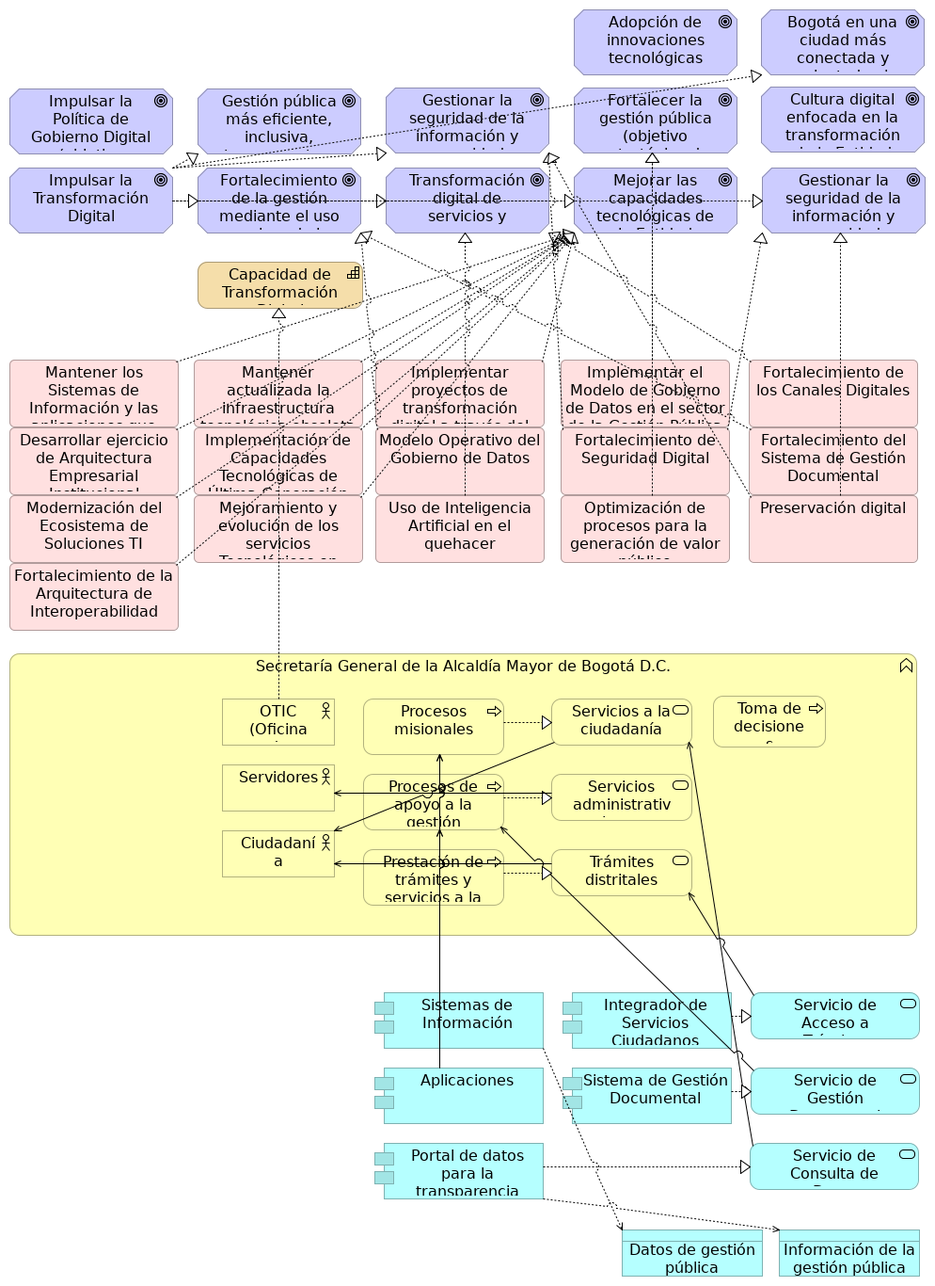
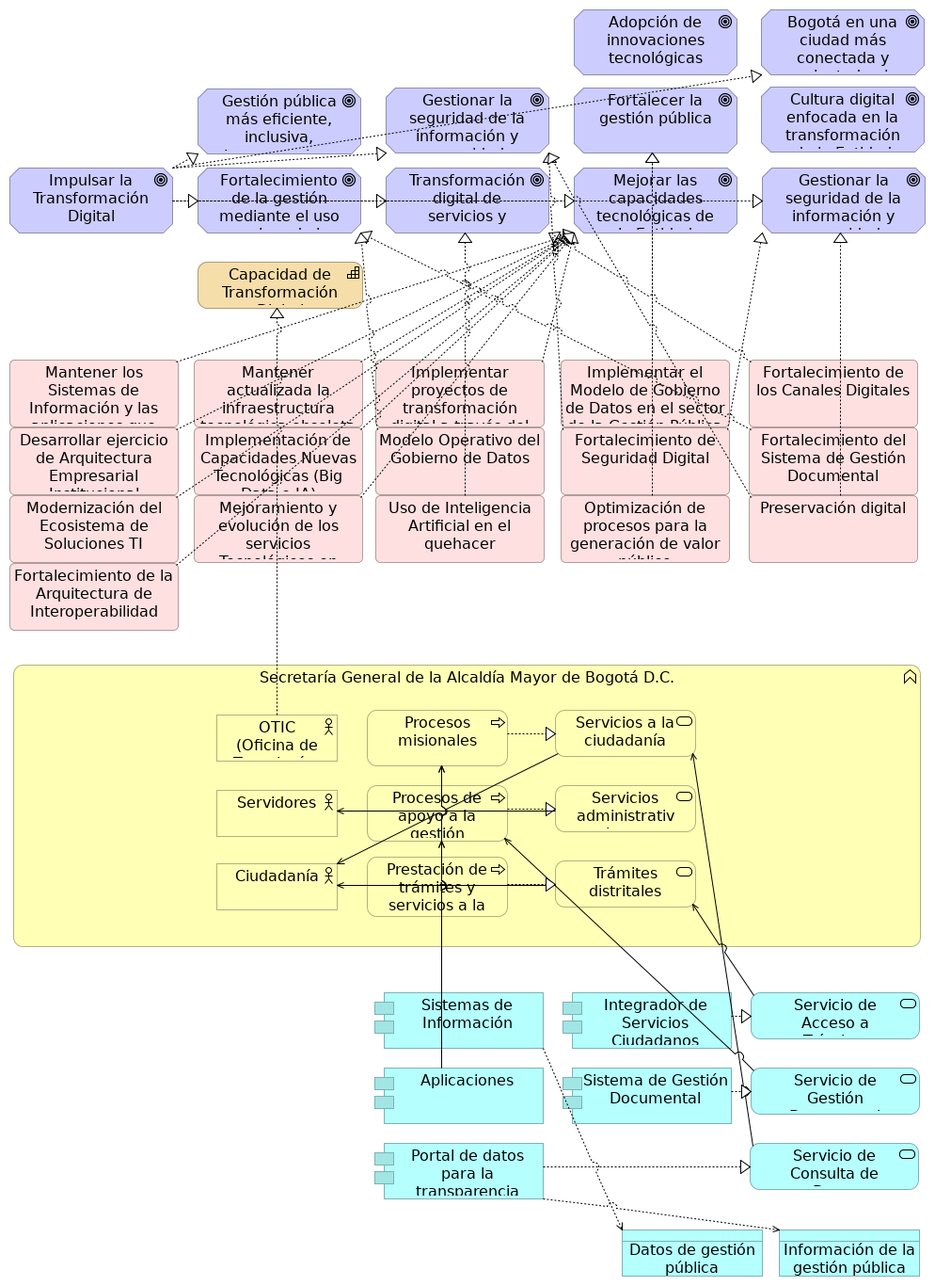
accion-actualizacionContd

diff --git a/contd/report/id-e61caa0dc3cc436aa918b17e0f565135/elements/model.html b/contd/report/id-e61caa0dc3cc436aa918b17e0f565135/elements/model.html
@@ -453,7 +453,7 @@
 									dataFoldersContent.push({folderid:"id-af0030490ef54a878db05f871880ff4c", contentid:"id-90483993bf6741a19d1dbe1a37b0bafe", contenttype:"Assessment"});
 										dataElements.push({id:"id-90483993bf6741a19d1dbe1a37b0bafe", type:"Assessment", specialization:decodeURL(""), name:decodeURL("An%C3%A1lisis+Descriptivos+%28No+Predictivos%2FProspectivos%29"), documentation:decodeURL("Debilidad+en+la+capacidad+de+la+entidad+para+realizar+an%C3%A1lisis+avanzados+que+apoyen+la+toma+de+decisiones+basada+en+evidencia.")});
 									dataFoldersContent.push({folderid:"id-af0030490ef54a878db05f871880ff4c", contentid:"id-efa0ed8f590f494895b82b14fb6e6307", contenttype:"Goal"});
-										dataElements.push({id:"id-efa0ed8f590f494895b82b14fb6e6307", type:"Goal", specialization:decodeURL(""), name:decodeURL("Impulsar+la+Pol%C3%ADtica+de+Gobierno+Digital+%28objetivo+estrat%C3%A9gico+de+TI%29"), documentation:decodeURL("Meta+de+TI+para+alinear+las+iniciativas+con+las+directrices+de+gobierno+digital.")});
+										dataElements.push({id:"id-efa0ed8f590f494895b82b14fb6e6307", type:"Goal", specialization:decodeURL(""), name:decodeURL("Impulsar+la+Pol%C3%ADtica+de+Gobierno+Digital"), documentation:decodeURL("Meta+de+TI+para+alinear+las+iniciativas+con+las+directrices+de+gobierno+digital.")});
 									dataFoldersContent.push({folderid:"id-af0030490ef54a878db05f871880ff4c", contentid:"id-88033c50802b46299158ed29fbecb98b", contenttype:"Driver"});
 										dataElements.push({id:"id-88033c50802b46299158ed29fbecb98b", type:"Driver", specialization:decodeURL(""), name:decodeURL("Reforma+Integral+del+Modelo+de+Gesti%C3%B3n+P%C3%BAblica"), documentation:decodeURL("Bogot%C3%A1+requiere+una+reforma+estructural+de+su+modelo+de+gesti%C3%B3n+p%C3%BAblica%2C+que+supere+las+rigideces+organizacionales%2C+mejore+la+articulaci%C3%B3n+entre+niveles+de+gobierno+y+avance+en+procesos+de+planeaci%C3%B3n+estrat%C3%A9gica+de+largo+plazo.+Esta+transformaci%C3%B3n+debe+construirse+sobre+tres+pilares%3A%0A1.+Evidencia+t%C3%A9cnica+y+datos+abiertos+para+fundamentar+decisiones+de+pol%C3%ADtica+p%C3%BAblica.%0A2.+Participaci%C3%B3n+ciudadana+estructurada%2C+como+base+de+la+legitimidad+democr%C3%A1tica.%0A3.+Fortalecimiento+del+gobierno+digital+y+la+capacidad+institucional%2C+como+eje+transversal.%0AUn+nuevo+marco+normativo%2C+operativo+y+fiscal%2C+impulsado+por+el+Concejo+Distrital+y%0Arespaldado+por+facultades+ejecutivas+claras%2C+permitir%C3%A1+a+Bogot%C3%A1+afrontar+los+desaf%C3%ADos+del+siglo+XXI.+Este+nuevo+modelo+garantizar%C3%A1+una+gesti%C3%B3n+m%C3%A1s+eficaz%2C+equitativa%2C+innovadora+y+sostenible%2C+posicionando+a+la+ciudad+como+un+referente+regional+en+transformaci%C3%B3n+urbana+y+gobernanza+territorial.")});
 									dataFoldersContent.push({folderid:"id-af0030490ef54a878db05f871880ff4c", contentid:"id-93711d25c10d46a88afd8ba601e07793", contenttype:"Driver"});
@@ -593,7 +593,7 @@
 									dataFoldersContent.push({folderid:"id-af0030490ef54a878db05f871880ff4c", contentid:"id-299c3798f32940b8bcaac62e461b1f09", contenttype:"Assessment"});
 										dataElements.push({id:"id-299c3798f32940b8bcaac62e461b1f09", type:"Assessment", specialization:decodeURL(""), name:decodeURL("Vulneraci%C3%B3n+Acceso+Cuentas+Correo%2FAplicativos"), documentation:decodeURL("Debilidad+en+la+seguridad+de+acceso%2C+comprometiendo+la+confidencialidad+de+la+informaci%C3%B3n.")});
 									dataFoldersContent.push({folderid:"id-af0030490ef54a878db05f871880ff4c", contentid:"id-c622c94909314900b5a3b9a9fd0ac96b", contenttype:"Goal"});
-										dataElements.push({id:"id-c622c94909314900b5a3b9a9fd0ac96b", type:"Goal", specialization:decodeURL(""), name:decodeURL("Fortalecer+la+gesti%C3%B3n+p%C3%BAblica+%28objetivo+estrat%C3%A9gico+de+TI%29"), documentation:decodeURL("Objetivo+de+TI+para+optimizar+los+procesos+y+servicios+de+la+administraci%C3%B3n+p%C3%BAblica.")});
+										dataElements.push({id:"id-c622c94909314900b5a3b9a9fd0ac96b", type:"Goal", specialization:decodeURL(""), name:decodeURL("Fortalecer+la+gesti%C3%B3n+p%C3%BAblica"), documentation:decodeURL("Objetivo+de+TI+para+optimizar+los+procesos+y+servicios+de+la+administraci%C3%B3n+p%C3%BAblica.")});
 									dataFoldersContent.push({folderid:"id-af0030490ef54a878db05f871880ff4c", contentid:"id-c544f60155b64acc9112de0e4616f08f", contenttype:"Outcome"});
 										dataElements.push({id:"id-c544f60155b64acc9112de0e4616f08f", type:"Outcome", specialization:decodeURL(""), name:decodeURL("Compromete+operatividad"), documentation:decodeURL("Impacto+de+inestabilidad+de+conectividad+e+indisponibilidad+de+servidores.")});
 									dataFoldersContent.push({folderid:"id-af0030490ef54a878db05f871880ff4c", contentid:"id-feaf186614724d499fcf30d3ae8f6a9c", contenttype:"Goal"});
@@ -664,7 +664,7 @@
 									dataFoldersContent.push({folderid:"id-ffca1671e7f747c69fdd755ce664b707", contentid:"id-126474f0b23647de8b025d3064b0d896", contenttype:"WorkPackage"});
 										dataElements.push({id:"id-126474f0b23647de8b025d3064b0d896", type:"WorkPackage", specialization:decodeURL(""), name:decodeURL("Fortalecimiento+de+los+Canales+Digitales"), documentation:decodeURL("Iniciativa+para+mejorar+la+calidad+y+alcance+de+los+canales+de+atenci%C3%B3n+digitales.")});
 									dataFoldersContent.push({folderid:"id-ffca1671e7f747c69fdd755ce664b707", contentid:"id-fe3fc3baf2ed450e91a12fa05578485f", contenttype:"WorkPackage"});
-										dataElements.push({id:"id-fe3fc3baf2ed450e91a12fa05578485f", type:"WorkPackage", specialization:decodeURL(""), name:decodeURL("Fortalecimiento+del+Sistema+de+Gesti%C3%B3n+Documental"), documentation:decodeURL("Iniciativa+para+mejorar+la+eficiencia+y+seguridad+en+la+gesti%C3%B3n+de+documentos.")});
+										dataElements.push({id:"id-fe3fc3baf2ed450e91a12fa05578485f", type:"WorkPackage", specialization:decodeURL(""), name:decodeURL("Fortalecimiento+del+Sistema+de+Gesti%C3%B3n+Documental"), documentation:decodeURL("Iniciativa+para+el+desarrollo+e+implementaci%C3%B3n+de+herramientas+y+procesos+avanzados+para+optimizar+la+clasificaci%C3%B3n%2C+almacenamiento%2C+acceso+y+control+de+la+documentaci%C3%B3n+institucional.")});
 									dataFoldersContent.push({folderid:"id-ffca1671e7f747c69fdd755ce664b707", contentid:"id-8d2e31bf3c584065b2b6d7b1dd405c6a", contenttype:"WorkPackage"});
 										dataElements.push({id:"id-8d2e31bf3c584065b2b6d7b1dd405c6a", type:"WorkPackage", specialization:decodeURL(""), name:decodeURL("Modernizaci%C3%B3n+del+Ecosistema+de+Soluciones+TI"), documentation:decodeURL("Proyecto+para+actualizar+y+optimizar+el+conjunto+de+soluciones+tecnol%C3%B3gicas.")});
 									dataFoldersContent.push({folderid:"id-ffca1671e7f747c69fdd755ce664b707", contentid:"id-994148fe0a4a49c1b17a213e64cc78f3", contenttype:"WorkPackage"});
@@ -674,7 +674,7 @@
 									dataFoldersContent.push({folderid:"id-ffca1671e7f747c69fdd755ce664b707", contentid:"id-50ad3b31c8a04909b49e3aec5147cfc3", contenttype:"WorkPackage"});
 										dataElements.push({id:"id-50ad3b31c8a04909b49e3aec5147cfc3", type:"WorkPackage", specialization:decodeURL(""), name:decodeURL("Racionalizar+funciones+y+redise%C3%B1ar+la+organizaci%C3%B3n"), documentation:decodeURL("Paquete+de+trabajo+para+optimizar+la+estructura+funcional+y+organizacional+de+la+entidad.")});
 									dataFoldersContent.push({folderid:"id-ffca1671e7f747c69fdd755ce664b707", contentid:"id-09dca5a7e1e54caa810fdd0b33578226", contenttype:"WorkPackage"});
-										dataElements.push({id:"id-09dca5a7e1e54caa810fdd0b33578226", type:"WorkPackage", specialization:decodeURL(""), name:decodeURL("Implementaci%C3%B3n+de+Capacidades+Tecnol%C3%B3gicas+de+%C3%9Altima+Generaci%C3%B3n+%28Big+Data+e+IA%29"), documentation:decodeURL("Iniciativa+para+incorporar+tecnolog%C3%ADas+emergentes+de+la+Cuarta+Revoluci%C3%B3n+Industrial.")});
+										dataElements.push({id:"id-09dca5a7e1e54caa810fdd0b33578226", type:"WorkPackage", specialization:decodeURL(""), name:decodeURL("Implementaci%C3%B3n+de+Capacidades+Nuevas+Tecnol%C3%B3gicas+%28Big+Data+e+IA%29"), documentation:decodeURL("Iniciativa+para+incorporar+tecnolog%C3%ADas+emergentes+de+la+Cuarta+Revoluci%C3%B3n+Industrial+para+optimizar+procesos%2C+impulsar+la+innovaci%C3%B3n+y+garantizar+la+transformaci%C3%B3n+digital.")});
 									dataFoldersContent.push({folderid:"id-ffca1671e7f747c69fdd755ce664b707", contentid:"id-fc14a34ed9184a51b75d48a856552fd9", contenttype:"WorkPackage"});
 										dataElements.push({id:"id-fc14a34ed9184a51b75d48a856552fd9", type:"WorkPackage", specialization:decodeURL(""), name:decodeURL("Tiempo%3A+semana+2+al+6+DIC%2F24"), documentation:decodeURL("")});
 													dataProperties.push({conceptid:"id-fc14a34ed9184a51b75d48a856552fd9", propkey:decodeURL("modulo"), propvalue:decodeURL("")});
@@ -2167,7 +2167,6 @@
 															dataViewsContent.push({viewid:"id-710b67ee56954bd891264181bf9a408f", contentid:"id-1da39fff93654a619757293e07437b1c", contenttype:"BusinessActor"});
 															dataViewsContent.push({viewid:"id-710b67ee56954bd891264181bf9a408f", contentid:"id-38f2a504d3604c8b9374e28777bdf4f1", contenttype:"BusinessActor"});
 															dataViewsContent.push({viewid:"id-710b67ee56954bd891264181bf9a408f", contentid:"id-621bb5a9d8af494a88f4c3f3f253f72f", contenttype:"BusinessProcess"});
-															dataViewsContent.push({viewid:"id-710b67ee56954bd891264181bf9a408f", contentid:"id-819c4413c9b54cdaa1762dca89890bcc", contenttype:"BusinessProcess"});
 													
 													dataViewsContent.push({viewid:"id-710b67ee56954bd891264181bf9a408f", contentid:"id-94900064d7fe44a1bd1482c1245396b2", contenttype:"ApplicationComponent"});
 													dataViewsContent.push({viewid:"id-710b67ee56954bd891264181bf9a408f", contentid:"id-8b22cbe857534ba1bd5450860088fba7", contenttype:"ApplicationComponent"});
@@ -2196,7 +2195,6 @@
 													dataViewsContent.push({viewid:"id-710b67ee56954bd891264181bf9a408f", contentid:"id-c622c94909314900b5a3b9a9fd0ac96b", contenttype:"Goal"});
 													dataViewsContent.push({viewid:"id-710b67ee56954bd891264181bf9a408f", contentid:"id-7ccc533d7aa848ae8c6fb5e0e30a8a90", contenttype:"Goal"});
 													dataViewsContent.push({viewid:"id-710b67ee56954bd891264181bf9a408f", contentid:"id-0eb64c6c02b14e1fa72a553d3674dea0", contenttype:"Goal"});
-													dataViewsContent.push({viewid:"id-710b67ee56954bd891264181bf9a408f", contentid:"id-efa0ed8f590f494895b82b14fb6e6307", contenttype:"Goal"});
 
 																			dataViewsContent.push({viewid:"id-710b67ee56954bd891264181bf9a408f", contentid:"id-db3892d2ad404d518fbf4c8790a252cd", contenttype:"RealizationRelationship"});
 																			dataViewsContent.push({viewid:"id-710b67ee56954bd891264181bf9a408f", contentid:"id-1fd036ed3dbf491bbb2842c9146aa9be", contenttype:"RealizationRelationship"});
@@ -2218,7 +2216,6 @@
 																			dataViewsContent.push({viewid:"id-710b67ee56954bd891264181bf9a408f", contentid:"id-3f2164a0a13945ed964010644c6424a8", contenttype:"RealizationRelationship"});
 
 																			dataViewsContent.push({viewid:"id-710b67ee56954bd891264181bf9a408f", contentid:"id-4a97e02d5b374199a235266a5a146fd9", contenttype:"CompositionRelationship"});
-																			dataViewsContent.push({viewid:"id-710b67ee56954bd891264181bf9a408f", contentid:"id-f9caf55e73db488aa78fe288b182f333", contenttype:"CompositionRelationship"});
 																			dataViewsContent.push({viewid:"id-710b67ee56954bd891264181bf9a408f", contentid:"id-472181008914434db9033afad231272e", contenttype:"CompositionRelationship"});
 																			dataViewsContent.push({viewid:"id-710b67ee56954bd891264181bf9a408f", contentid:"id-cbb368aa85854a749dd15737082f2284", contenttype:"AggregationRelationship"});
 																			dataViewsContent.push({viewid:"id-710b67ee56954bd891264181bf9a408f", contentid:"id-b9fbceb94e9c4c5fbaa1f404d9cb473c", contenttype:"RealizationRelationship"});

diff --git a/contd/report/id-e61caa0dc3cc436aa918b17e0f565135/views/id-710b67ee56954bd891264181bf9a408f.html b/contd/report/id-e61caa0dc3cc436aa918b17e0f565135/views/id-710b67ee56954bd891264181bf9a408f.html
@@ -33,7 +33,6 @@
 		    <!-- If this is a digram model (has children and no bounds) show the image -->
 			   <img class="diagram" src="../images/id-710b67ee56954bd891264181bf9a408f.png" alt="06.BMM. Objetivos e Iniciativas. PETI SG" usemap="#id-710b67ee56954bd891264181bf9a408fmap"/>
 			   <map name="id-710b67ee56954bd891264181bf9a408fmap">
-				  		<area shape="rect" coords="10,94,184,164" href="../elements/id-efa0ed8f590f494895b82b14fb6e6307.html"  target="element">
 				  		<area shape="rect" coords="210,94,384,164" href="../elements/id-0eb64c6c02b14e1fa72a553d3674dea0.html"  target="element">
 				  		<area shape="rect" coords="410,93,584,163" href="../elements/id-7ccc533d7aa848ae8c6fb5e0e30a8a90.html"  target="element">
 				  		<area shape="rect" coords="610,93,784,163" href="../elements/id-c622c94909314900b5a3b9a9fd0ac96b.html"  target="element">
@@ -61,18 +60,17 @@
 				  		<area shape="rect" coords="398,1214,578,1274" href="../elements/id-7777d0c7b7904d36856f7181c11e8ad7.html"  target="element">
 				  		<area shape="rect" coords="398,1134,578,1194" href="../elements/id-8b22cbe857534ba1bd5450860088fba7.html"  target="element">
 				  		<area shape="rect" coords="398,1054,578,1114" href="../elements/id-94900064d7fe44a1bd1482c1245396b2.html"  target="element">
-				  				<area shape="rect" coords="758,739,878,794" href="../elements/id-819c4413c9b54cdaa1762dca89890bcc.html"  target="element">
-				  				<area shape="rect" coords="386,902,536,962" href="../elements/id-621bb5a9d8af494a88f4c3f3f253f72f.html"  target="element">
-				  				<area shape="rect" coords="236,882,356,932" href="../elements/id-38f2a504d3604c8b9374e28777bdf4f1.html"  target="element">
-				  				<area shape="rect" coords="236,812,356,862" href="../elements/id-1da39fff93654a619757293e07437b1c.html"  target="element">
-				  				<area shape="rect" coords="586,902,736,952" href="../elements/id-21dd638fedef414c8898d868aab56bf5.html"  target="element">
-				  				<area shape="rect" coords="586,822,736,872" href="../elements/id-bacd230fc943406da4e48206cc700a93.html"  target="element">
-				  				<area shape="rect" coords="586,742,736,792" href="../elements/id-1825096fc0514be7a6936b986fc52062.html"  target="element">
-				  				<area shape="rect" coords="386,742,536,802" href="../elements/id-12a876a6010f4b8f852689da35e49888.html"  target="element">
-				  				<area shape="rect" coords="386,822,536,882" href="../elements/id-58382ae64bee4ff6a6b7b078ad5931c1.html"  target="element">
-				  				<area shape="rect" coords="236,742,356,792" href="../elements/id-8565346bcd794c3486457c75b0da6e39.html"  target="element">
+				  				<area shape="rect" coords="390,910,540,974" href="../elements/id-621bb5a9d8af494a88f4c3f3f253f72f.html"  target="element">
+				  				<area shape="rect" coords="230,917,359,967" href="../elements/id-38f2a504d3604c8b9374e28777bdf4f1.html"  target="element">
+				  				<area shape="rect" coords="230,839,359,889" href="../elements/id-1da39fff93654a619757293e07437b1c.html"  target="element">
+				  				<area shape="rect" coords="590,914,740,964" href="../elements/id-21dd638fedef414c8898d868aab56bf5.html"  target="element">
+				  				<area shape="rect" coords="590,834,740,884" href="../elements/id-bacd230fc943406da4e48206cc700a93.html"  target="element">
+				  				<area shape="rect" coords="590,754,740,804" href="../elements/id-1825096fc0514be7a6936b986fc52062.html"  target="element">
+				  				<area shape="rect" coords="390,754,540,814" href="../elements/id-12a876a6010f4b8f852689da35e49888.html"  target="element">
+				  				<area shape="rect" coords="390,834,540,894" href="../elements/id-58382ae64bee4ff6a6b7b078ad5931c1.html"  target="element">
+				  				<area shape="rect" coords="230,759,359,809" href="../elements/id-8565346bcd794c3486457c75b0da6e39.html"  target="element">
 
-				  		<area shape="rect" coords="10,694,975,994" href="../elements/id-6527af224e3d41319e5fe5037f16f4c2.html"  target="element">
+				  		<area shape="rect" coords="14,706,979,1006" href="../elements/id-6527af224e3d41319e5fe5037f16f4c2.html"  target="element">
 				  		<area shape="rect" coords="796,454,976,526" href="../elements/id-fe3fc3baf2ed450e91a12fa05578485f.html"  target="element">
 				  		<area shape="rect" coords="596,454,776,526" href="../elements/id-6800b353d5244d4ca94c4546aa030488.html"  target="element">
 				  		<area shape="rect" coords="399,454,579,526" href="../elements/id-7f738406275c4377b7936ac83b024de1.html"  target="element">
@@ -171,7 +169,7 @@
 											</tr>
 
 											<tr>
-											    <td> <a href="../elements/id-09dca5a7e1e54caa810fdd0b33578226.html" target="element"> Implementaci&#243;n de Capacidades Tecnol&#243;gicas de &#218;ltima Generaci&#243;n (Big Data e IA) </a> </td>
+											    <td> <a href="../elements/id-09dca5a7e1e54caa810fdd0b33578226.html" target="element"> Implementaci&#243;n de Capacidades Nuevas Tecnol&#243;gicas (Big Data e IA) </a> </td>
 											    <td> <a href="../elements/id-09dca5a7e1e54caa810fdd0b33578226.html" target="element" class="i18n-elementtype-WorkPackage">
 											    </a> </td>
 											</tr>
@@ -251,12 +249,6 @@
 													<tr>
 													    <td> <a href="../elements/id-621bb5a9d8af494a88f4c3f3f253f72f.html" target="element"> Prestaci&#243;n de tr&#225;mites y servicios a la ciudadan&#237;a </a> </td>
 													    <td> <a href="../elements/id-621bb5a9d8af494a88f4c3f3f253f72f.html" target="element" class="i18n-elementtype-BusinessProcess">
-													    </a> </td>
-													</tr>
-
-													<tr>
-													    <td> <a href="../elements/id-819c4413c9b54cdaa1762dca89890bcc.html" target="element"> Toma de decisiones </a> </td>
-													    <td> <a href="../elements/id-819c4413c9b54cdaa1762dca89890bcc.html" target="element" class="i18n-elementtype-BusinessProcess">
 													    </a> </td>
 													</tr>
 
@@ -406,7 +398,7 @@
 											</tr>
 
 											<tr>
-											    <td> <a href="../elements/id-c622c94909314900b5a3b9a9fd0ac96b.html" target="element"> Fortalecer la gesti&#243;n p&#250;blica (objetivo estrat&#233;gico de TI) </a> </td>
+											    <td> <a href="../elements/id-c622c94909314900b5a3b9a9fd0ac96b.html" target="element"> Fortalecer la gesti&#243;n p&#250;blica </a> </td>
 											    <td> <a href="../elements/id-c622c94909314900b5a3b9a9fd0ac96b.html" target="element" class="i18n-elementtype-Goal">
 											    </a> </td>
 											</tr>
@@ -420,12 +412,6 @@
 											<tr>
 											    <td> <a href="../elements/id-0eb64c6c02b14e1fa72a553d3674dea0.html" target="element"> Gesti&#243;n p&#250;blica m&#225;s eficiente, inclusiva, transparente y confiable </a> </td>
 											    <td> <a href="../elements/id-0eb64c6c02b14e1fa72a553d3674dea0.html" target="element" class="i18n-elementtype-Goal">
-											    </a> </td>
-											</tr>
-
-											<tr>
-											    <td> <a href="../elements/id-efa0ed8f590f494895b82b14fb6e6307.html" target="element"> Impulsar la Pol&#237;tica de Gobierno Digital (objetivo estrat&#233;gico de TI) </a> </td>
-											    <td> <a href="../elements/id-efa0ed8f590f494895b82b14fb6e6307.html" target="element" class="i18n-elementtype-Goal">
 											    </a> </td>
 											</tr>
 
@@ -506,7 +492,7 @@
 																		<td> <a href="../elements/id-a67b843d72b04fecbbabafe1394e042a.html" target="element">  </a> </td>
 																		<td> <a href="../elements/id-a67b843d72b04fecbbabafe1394e042a.html" target="element" class="i18n-elementtype-RealizationRelationship">
 																		</a> </td>
-																		<td> <a href="../elements/id-09dca5a7e1e54caa810fdd0b33578226.html" target="element"> Implementaci&#243;n de Capacidades Tecnol&#243;gicas de &#218;ltima Generaci&#243;n (Big Data e IA) </a> </td>
+																		<td> <a href="../elements/id-09dca5a7e1e54caa810fdd0b33578226.html" target="element"> Implementaci&#243;n de Capacidades Nuevas Tecnol&#243;gicas (Big Data e IA) </a> </td>
 																		<td> <a href="../elements/id-a661fae362aa46a5a5d4d058b7944add.html" target="element"> Mejorar las capacidades tecnol&#243;gicas de la Entidad (objetivo estrat&#233;gico de TI) </a> </td>
 																	</tr>
 
@@ -547,13 +533,6 @@
 																		</a> </td>
 																		<td> <a href="../elements/id-6527af224e3d41319e5fe5037f16f4c2.html" target="element"> Secretar&#237;a General de la Alcald&#237;a Mayor de Bogot&#225; D.C. </a> </td>
 																		<td> <a href="../elements/id-58382ae64bee4ff6a6b7b078ad5931c1.html" target="element"> Procesos de apoyo a la gesti&#243;n </a> </td>
-																	</tr>
-																	<tr>
-																		<td> <a href="../elements/id-f9caf55e73db488aa78fe288b182f333.html" target="element">  </a> </td>
-																		<td> <a href="../elements/id-f9caf55e73db488aa78fe288b182f333.html" target="element" class="i18n-elementtype-CompositionRelationship">
-																		</a> </td>
-																		<td> <a href="../elements/id-6527af224e3d41319e5fe5037f16f4c2.html" target="element"> Secretar&#237;a General de la Alcald&#237;a Mayor de Bogot&#225; D.C. </a> </td>
-																		<td> <a href="../elements/id-819c4413c9b54cdaa1762dca89890bcc.html" target="element"> Toma de decisiones </a> </td>
 																	</tr>
 																	<tr>
 																		<td> <a href="../elements/id-472181008914434db9033afad231272e.html" target="element">  </a> </td>
@@ -775,7 +754,7 @@
 																		<td> <a href="../elements/id-a75124747420408f912587bdcc5d599e.html" target="element" class="i18n-elementtype-RealizationRelationship">
 																		</a> </td>
 																		<td> <a href="../elements/id-b86aac7e71d2488985d21f74ddf9bb6e.html" target="element"> Implementar el Modelo de Gobierno de Datos en el sector de la Gesti&#243;n P&#250;blica </a> </td>
-																		<td> <a href="../elements/id-c622c94909314900b5a3b9a9fd0ac96b.html" target="element"> Fortalecer la gesti&#243;n p&#250;blica (objetivo estrat&#233;gico de TI) </a> </td>
+																		<td> <a href="../elements/id-c622c94909314900b5a3b9a9fd0ac96b.html" target="element"> Fortalecer la gesti&#243;n p&#250;blica </a> </td>
 																	</tr>
 
 																	<tr>
@@ -823,7 +802,7 @@
 																		<td> <a href="../elements/id-1532018f096e476ebdc50b6bfa6b9a02.html" target="element" class="i18n-elementtype-RealizationRelationship">
 																		</a> </td>
 																		<td> <a href="../elements/id-a858e82925484d3592cb72e1ab3b946e.html" target="element"> Optimizaci&#243;n de procesos para la generaci&#243;n de valor p&#250;blico </a> </td>
-																		<td> <a href="../elements/id-c622c94909314900b5a3b9a9fd0ac96b.html" target="element"> Fortalecer la gesti&#243;n p&#250;blica (objetivo estrat&#233;gico de TI) </a> </td>
+																		<td> <a href="../elements/id-c622c94909314900b5a3b9a9fd0ac96b.html" target="element"> Fortalecer la gesti&#243;n p&#250;blica </a> </td>
 																	</tr>
 
 																	<tr>

diff --git a/contd/report/index.html b/contd/report/index.html
@@ -234,7 +234,7 @@
 													<li class="tree-element "><a href="id-e61caa0dc3cc436aa918b17e0f565135/elements/id-4c4b9e76aa474d02822aa5d74db6140a.html" target="element"> Fortalecimiento de la Seguridad de la Informaci&#243;n </a></li>
 													<li class="tree-element "><a href="id-e61caa0dc3cc436aa918b17e0f565135/elements/id-bec83fccf97b4ae68c8781c185b790bb.html" target="element"> Falta de Software para Extracci&#243;n de Informaci&#243;n Din&#225;mica </a></li>
 													<li class="tree-element "><a href="id-e61caa0dc3cc436aa918b17e0f565135/elements/id-90483993bf6741a19d1dbe1a37b0bafe.html" target="element"> An&#225;lisis Descriptivos (No Predictivos/Prospectivos) </a></li>
-													<li class="tree-element "><a href="id-e61caa0dc3cc436aa918b17e0f565135/elements/id-efa0ed8f590f494895b82b14fb6e6307.html" target="element"> Impulsar la Pol&#237;tica de Gobierno Digital (objetivo estrat&#233;gico de TI) </a></li>
+													<li class="tree-element "><a href="id-e61caa0dc3cc436aa918b17e0f565135/elements/id-efa0ed8f590f494895b82b14fb6e6307.html" target="element"> Impulsar la Pol&#237;tica de Gobierno Digital </a></li>
 													<li class="tree-element "><a href="id-e61caa0dc3cc436aa918b17e0f565135/elements/id-88033c50802b46299158ed29fbecb98b.html" target="element"> Reforma Integral del Modelo de Gesti&#243;n P&#250;blica </a></li>
 													<li class="tree-element "><a href="id-e61caa0dc3cc436aa918b17e0f565135/elements/id-93711d25c10d46a88afd8ba601e07793.html" target="element"> D&#233;bil articulaci&#243;n interinstitucional </a></li>
 													<li class="tree-element "><a href="id-e61caa0dc3cc436aa918b17e0f565135/elements/id-5bbfb840d22a480b969290779ead3def.html" target="element"> Reprocesos </a></li>
@@ -301,7 +301,7 @@
 													<li class="tree-element "><a href="id-e61caa0dc3cc436aa918b17e0f565135/elements/id-994fee3719734bfd8bbc2ebd298bfc58.html" target="element"> Procesos y Herramientas Mejorados </a></li>
 													<li class="tree-element "><a href="id-e61caa0dc3cc436aa918b17e0f565135/elements/id-4ca37614fd9342e9a945181c5fdbaf16.html" target="element"> Desaf&#237;os operativos, tiempos, digitalizaci&#243;n </a></li>
 													<li class="tree-element "><a href="id-e61caa0dc3cc436aa918b17e0f565135/elements/id-299c3798f32940b8bcaac62e461b1f09.html" target="element"> Vulneraci&#243;n Acceso Cuentas Correo/Aplicativos </a></li>
-													<li class="tree-element "><a href="id-e61caa0dc3cc436aa918b17e0f565135/elements/id-c622c94909314900b5a3b9a9fd0ac96b.html" target="element"> Fortalecer la gesti&#243;n p&#250;blica (objetivo estrat&#233;gico de TI) </a></li>
+													<li class="tree-element "><a href="id-e61caa0dc3cc436aa918b17e0f565135/elements/id-c622c94909314900b5a3b9a9fd0ac96b.html" target="element"> Fortalecer la gesti&#243;n p&#250;blica </a></li>
 													<li class="tree-element "><a href="id-e61caa0dc3cc436aa918b17e0f565135/elements/id-c544f60155b64acc9112de0e4616f08f.html" target="element"> Compromete operatividad </a></li>
 													<li class="tree-element "><a href="id-e61caa0dc3cc436aa918b17e0f565135/elements/id-feaf186614724d499fcf30d3ae8f6a9c.html" target="element"> Transformaci&#243;n Digital </a></li>
 													<li class="tree-element "><a href="id-e61caa0dc3cc436aa918b17e0f565135/elements/id-02fd60cbde3b4040b33c22c85d6fdcea.html" target="element"> Cultura digital enfocada en la transformaci&#243;n de la Entidad </a></li>
@@ -342,7 +342,7 @@
 													<li class="tree-element "><a href="id-e61caa0dc3cc436aa918b17e0f565135/elements/id-8d2e31bf3c584065b2b6d7b1dd405c6a.html" target="element"> Modernizaci&#243;n del Ecosistema de Soluciones TI </a></li>
 													<li class="tree-element  "><a href="id-e61caa0dc3cc436aa918b17e0f565135/elements/id-994148fe0a4a49c1b17a213e64cc78f3.html" target="element"> Tiempo: NOV/24 </a></li>
 													<li class="tree-element "><a href="id-e61caa0dc3cc436aa918b17e0f565135/elements/id-50ad3b31c8a04909b49e3aec5147cfc3.html" target="element"> Racionalizar funciones y redise&#241;ar la organizaci&#243;n </a></li>
-													<li class="tree-element "><a href="id-e61caa0dc3cc436aa918b17e0f565135/elements/id-09dca5a7e1e54caa810fdd0b33578226.html" target="element"> Implementaci&#243;n de Capacidades Tecnol&#243;gicas de &#218;ltima Generaci&#243;n (Big Data e IA) </a></li>
+													<li class="tree-element "><a href="id-e61caa0dc3cc436aa918b17e0f565135/elements/id-09dca5a7e1e54caa810fdd0b33578226.html" target="element"> Implementaci&#243;n de Capacidades Nuevas Tecnol&#243;gicas (Big Data e IA) </a></li>
 													<li class="tree-element  "><a href="id-e61caa0dc3cc436aa918b17e0f565135/elements/id-fc14a34ed9184a51b75d48a856552fd9.html" target="element"> Tiempo: semana 2 al 6 DIC/24 </a></li>
 													<li class="tree-element "><a href="id-e61caa0dc3cc436aa918b17e0f565135/elements/id-1b26e37d920e45f09e53c7ff4c66124c.html" target="element"> Gap </a></li>
 													<li class="tree-element  "><a href="id-e61caa0dc3cc436aa918b17e0f565135/elements/id-2c7f5497111541b39e52373339385630.html" target="element"> Tiempo: semana 9 al 20. DIC/24 </a></li>
@@ -1176,7 +1176,7 @@
 													</a></li>
 													<li class="tree-element "><a href="id-e61caa0dc3cc436aa918b17e0f565135/elements/id-a75124747420408f912587bdcc5d599e.html" target="element">
 															<span class="i18n-elementtype-RealizationRelationship"></span>
-														(Implementar el Modelo de Gobierno de Datos en el sector de la Gesti&#243;n P&#250;blica - Fortalecer la gesti&#243;n p&#250;blica (objetivo estrat&#233;gico de TI)) 
+														(Implementar el Modelo de Gobierno de Datos en el sector de la Gesti&#243;n P&#250;blica - Fortalecer la gesti&#243;n p&#250;blica) 
 													</a></li>
 													<li class="tree-element "><a href="id-e61caa0dc3cc436aa918b17e0f565135/elements/id-cf9e0469bc784f9bae82b1a38a2210b1.html" target="element">
 															<span class="i18n-elementtype-CompositionRelationship"></span>
@@ -1552,7 +1552,7 @@
 													</a></li>
 													<li class="tree-element "><a href="id-e61caa0dc3cc436aa918b17e0f565135/elements/id-1532018f096e476ebdc50b6bfa6b9a02.html" target="element">
 															<span class="i18n-elementtype-RealizationRelationship"></span>
-														(Optimizaci&#243;n de procesos para la generaci&#243;n de valor p&#250;blico - Fortalecer la gesti&#243;n p&#250;blica (objetivo estrat&#233;gico de TI)) 
+														(Optimizaci&#243;n de procesos para la generaci&#243;n de valor p&#250;blico - Fortalecer la gesti&#243;n p&#250;blica) 
 													</a></li>
 													<li class="tree-element "><a href="id-e61caa0dc3cc436aa918b17e0f565135/elements/id-86ae88a628554caeb0b7152ccb7e8bbd.html" target="element">
 															soporta
@@ -1592,7 +1592,7 @@
 													</a></li>
 													<li class="tree-element "><a href="id-e61caa0dc3cc436aa918b17e0f565135/elements/id-a67b843d72b04fecbbabafe1394e042a.html" target="element">
 															<span class="i18n-elementtype-RealizationRelationship"></span>
-														(Implementaci&#243;n de Capacidades Tecnol&#243;gicas de &#218;ltima Generaci&#243;n (Big Data e IA) - Mejorar las capacidades tecnol&#243;gicas de la Entidad (objetivo estrat&#233;gico de TI)) 
+														(Implementaci&#243;n de Capacidades Nuevas Tecnol&#243;gicas (Big Data e IA) - Mejorar las capacidades tecnol&#243;gicas de la Entidad (objetivo estrat&#233;gico de TI)) 
 													</a></li>
 													<li class="tree-element "><a href="id-e61caa0dc3cc436aa918b17e0f565135/elements/id-41fb8b95f057437fb7b1309cc179f7c5.html" target="element">
 															<span class="i18n-elementtype-CompositionRelationship"></span>

diff --git a/contd/report/id-e61caa0dc3cc436aa918b17e0f565135/elements/id-09dca5a7e1e54caa810fdd0b33578226.html b/contd/report/id-e61caa0dc3cc436aa918b17e0f565135/elements/id-09dca5a7e1e54caa810fdd0b33578226.html
@@ -2,7 +2,7 @@
 <html class="frame" lang="en">
 <head>
 	<meta http-equiv="Content-Type" content="text/html;charset=utf-8">
-	<title>Implementación de Capacidades Tecnológicas de Última Generación (Big Data e IA)</title>
+	<title>Implementación de Capacidades Nuevas Tecnológicas (Big Data e IA)</title>
 
 	<!-- JQUERY (use 1.x branch to be compatible with IE 6/7/8) -->
 	<script type="text/javascript" src="../../lib/jquery/js/jquery-1.11.2.min.js"></script>
@@ -21,7 +21,7 @@
 
 		<div class="panel-heading root-panel-heading">
             <!-- Name -->
-               <b>Implementaci&#243;n de Capacidades Tecnol&#243;gicas de &#218;ltima Generaci&#243;n (Big Data e IA)</b>
+               <b>Implementaci&#243;n de Capacidades Nuevas Tecnol&#243;gicas (Big Data e IA)</b>
 
             <!-- If a View with Viewpoint -->
 			   (<span class="i18n-elementtype-WorkPackage"></span>)
@@ -45,7 +45,7 @@
 				<!-- Tab panes -->
 				<div class="tab-content">
 					<div role="tabpanel" class="tab-pane active" id="documentation">
-						<div class="convertlinks documentation" style="white-space:pre-wrap">Iniciativa para incorporar tecnolog&#237;as emergentes de la Cuarta Revoluci&#243;n Industrial.</div>
+						<div class="convertlinks documentation" style="white-space:pre-wrap">Iniciativa para incorporar tecnolog&#237;as emergentes de la Cuarta Revoluci&#243;n Industrial para optimizar procesos, impulsar la innovaci&#243;n y garantizar la transformaci&#243;n digital.</div>
 					</div>
 					<div role="tabpanel" class="tab-pane" id="properties">
 						<table class="table table-striped table-hover table-condensed">

diff --git a/contd/report/id-e61caa0dc3cc436aa918b17e0f565135/elements/id-efa0ed8f590f494895b82b14fb6e6307.html b/contd/report/id-e61caa0dc3cc436aa918b17e0f565135/elements/id-efa0ed8f590f494895b82b14fb6e6307.html
@@ -2,7 +2,7 @@
 <html class="frame" lang="en">
 <head>
 	<meta http-equiv="Content-Type" content="text/html;charset=utf-8">
-	<title>Impulsar la Política de Gobierno Digital (objetivo estratégico de TI)</title>
+	<title>Impulsar la Política de Gobierno Digital</title>
 
 	<!-- JQUERY (use 1.x branch to be compatible with IE 6/7/8) -->
 	<script type="text/javascript" src="../../lib/jquery/js/jquery-1.11.2.min.js"></script>
@@ -21,7 +21,7 @@
 
 		<div class="panel-heading root-panel-heading">
             <!-- Name -->
-               <b>Impulsar la Pol&#237;tica de Gobierno Digital (objetivo estrat&#233;gico de TI)</b>
+               <b>Impulsar la Pol&#237;tica de Gobierno Digital</b>
 
             <!-- If a View with Viewpoint -->
 			   (<span class="i18n-elementtype-Goal"></span>)

diff --git a/contd/report/id-e61caa0dc3cc436aa918b17e0f565135/elements/id-c622c94909314900b5a3b9a9fd0ac96b.html b/contd/report/id-e61caa0dc3cc436aa918b17e0f565135/elements/id-c622c94909314900b5a3b9a9fd0ac96b.html
@@ -2,7 +2,7 @@
 <html class="frame" lang="en">
 <head>
 	<meta http-equiv="Content-Type" content="text/html;charset=utf-8">
-	<title>Fortalecer la gestión pública (objetivo estratégico de TI)</title>
+	<title>Fortalecer la gestión pública</title>
 
 	<!-- JQUERY (use 1.x branch to be compatible with IE 6/7/8) -->
 	<script type="text/javascript" src="../../lib/jquery/js/jquery-1.11.2.min.js"></script>
@@ -21,7 +21,7 @@
 
 		<div class="panel-heading root-panel-heading">
             <!-- Name -->
-               <b>Fortalecer la gesti&#243;n p&#250;blica (objetivo estrat&#233;gico de TI)</b>
+               <b>Fortalecer la gesti&#243;n p&#250;blica</b>
 
             <!-- If a View with Viewpoint -->
 			   (<span class="i18n-elementtype-Goal"></span>)

diff --git a/contd/report/id-e61caa0dc3cc436aa918b17e0f565135/elements/id-fe3fc3baf2ed450e91a12fa05578485f.html b/contd/report/id-e61caa0dc3cc436aa918b17e0f565135/elements/id-fe3fc3baf2ed450e91a12fa05578485f.html
@@ -45,7 +45,7 @@
 				<!-- Tab panes -->
 				<div class="tab-content">
 					<div role="tabpanel" class="tab-pane active" id="documentation">
-						<div class="convertlinks documentation" style="white-space:pre-wrap">Iniciativa para mejorar la eficiencia y seguridad en la gesti&#243;n de documentos.</div>
+						<div class="convertlinks documentation" style="white-space:pre-wrap">Iniciativa para el desarrollo e implementaci&#243;n de herramientas y procesos avanzados para optimizar la clasificaci&#243;n, almacenamiento, acceso y control de la documentaci&#243;n institucional.</div>
 					</div>
 					<div role="tabpanel" class="tab-pane" id="properties">
 						<table class="table table-striped table-hover table-condensed">

diff --git a/contd/report/id-e61caa0dc3cc436aa918b17e0f565135/elements/id-a67b843d72b04fecbbabafe1394e042a.html b/contd/report/id-e61caa0dc3cc436aa918b17e0f565135/elements/id-a67b843d72b04fecbbabafe1394e042a.html
@@ -47,7 +47,7 @@
 							<br>
 							<b class="i18n-relation-source"></b>
 								<a href="../elements/id-09dca5a7e1e54caa810fdd0b33578226.html" target="element">
-									Implementaci&#243;n de Capacidades Tecnol&#243;gicas de &#218;ltima Generaci&#243;n (Big Data e IA)
+									Implementaci&#243;n de Capacidades Nuevas Tecnol&#243;gicas (Big Data e IA)
 								</a>
 							<br>
 							<b class="i18n-relation-target"></b>

diff --git a/contd/report/id-e61caa0dc3cc436aa918b17e0f565135/elements/id-1532018f096e476ebdc50b6bfa6b9a02.html b/contd/report/id-e61caa0dc3cc436aa918b17e0f565135/elements/id-1532018f096e476ebdc50b6bfa6b9a02.html
@@ -52,7 +52,7 @@
 							<br>
 							<b class="i18n-relation-target"></b>
 								<a href="../elements/id-c622c94909314900b5a3b9a9fd0ac96b.html" target="element">
-									Fortalecer la gesti&#243;n p&#250;blica (objetivo estrat&#233;gico de TI)
+									Fortalecer la gesti&#243;n p&#250;blica
 								</a>
 							<br>
 							<br>

diff --git a/contd/report/id-e61caa0dc3cc436aa918b17e0f565135/elements/id-a75124747420408f912587bdcc5d599e.html b/contd/report/id-e61caa0dc3cc436aa918b17e0f565135/elements/id-a75124747420408f912587bdcc5d599e.html
@@ -52,7 +52,7 @@
 							<br>
 							<b class="i18n-relation-target"></b>
 								<a href="../elements/id-c622c94909314900b5a3b9a9fd0ac96b.html" target="element">
-									Fortalecer la gesti&#243;n p&#250;blica (objetivo estrat&#233;gico de TI)
+									Fortalecer la gesti&#243;n p&#250;blica
 								</a>
 							<br>
 							<br>
